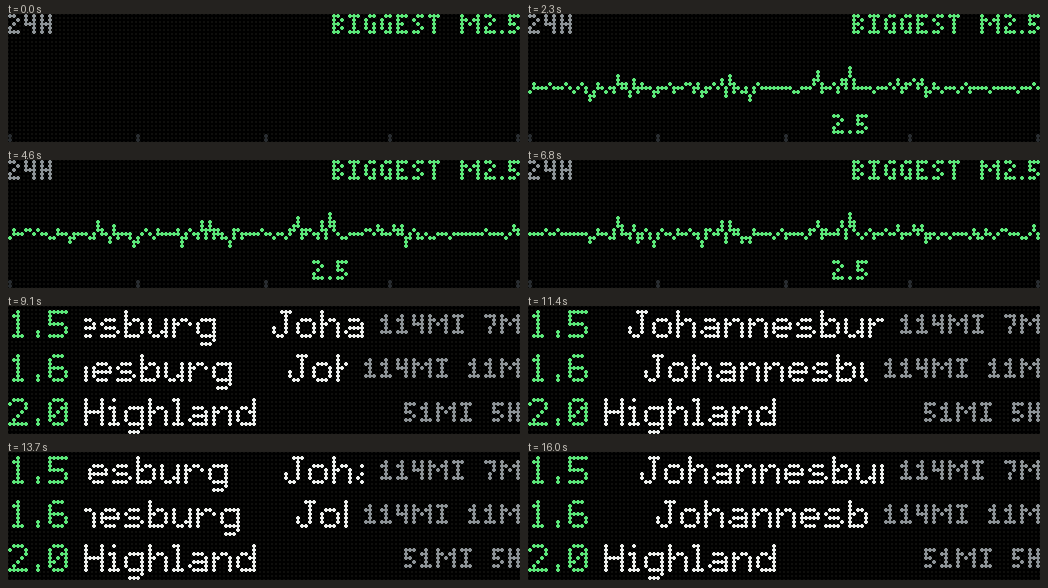
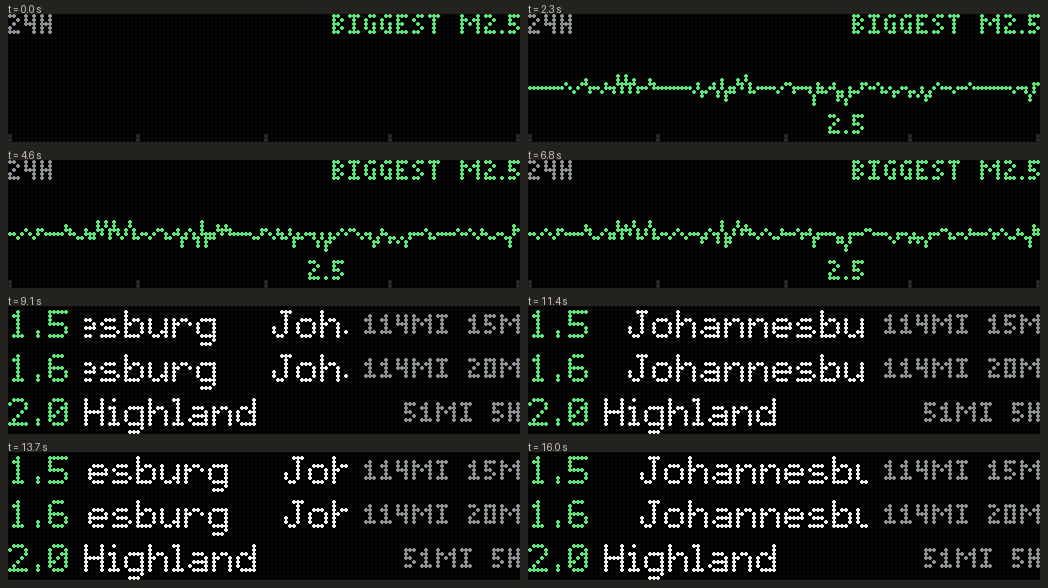
Quakes: two rows naming the same place scroll in lockstep
Each row's scroll was staggered by its position on the list, so two
quakes at the same place drifted out of sync with each other as they
scrolled. They now share one clock, so identical names line up.

diff --git a/plugins/quakes/plugin.py b/plugins/quakes/plugin.py
@@ -176,8 +176,10 @@ class Seismograph(Module):
             if text_width(name, 1, True) <= room:
                 draw_text(frame, name, name_x, y, WHITE, mixed=True)
             else:
+                # One shared clock (not staggered by row) so two rows naming the
+                # same place scroll in lockstep instead of drifting apart.
                 strip = _name_strip(name)
-                loop_strip(frame, strip, (name_x, y, room, strip.height), max(0.0, local - index * .2), NAME_SPEED)
+                loop_strip(frame, strip, (name_x, y, room, strip.height), local, NAME_SPEED)
 
 
 plugin = Plugin(
